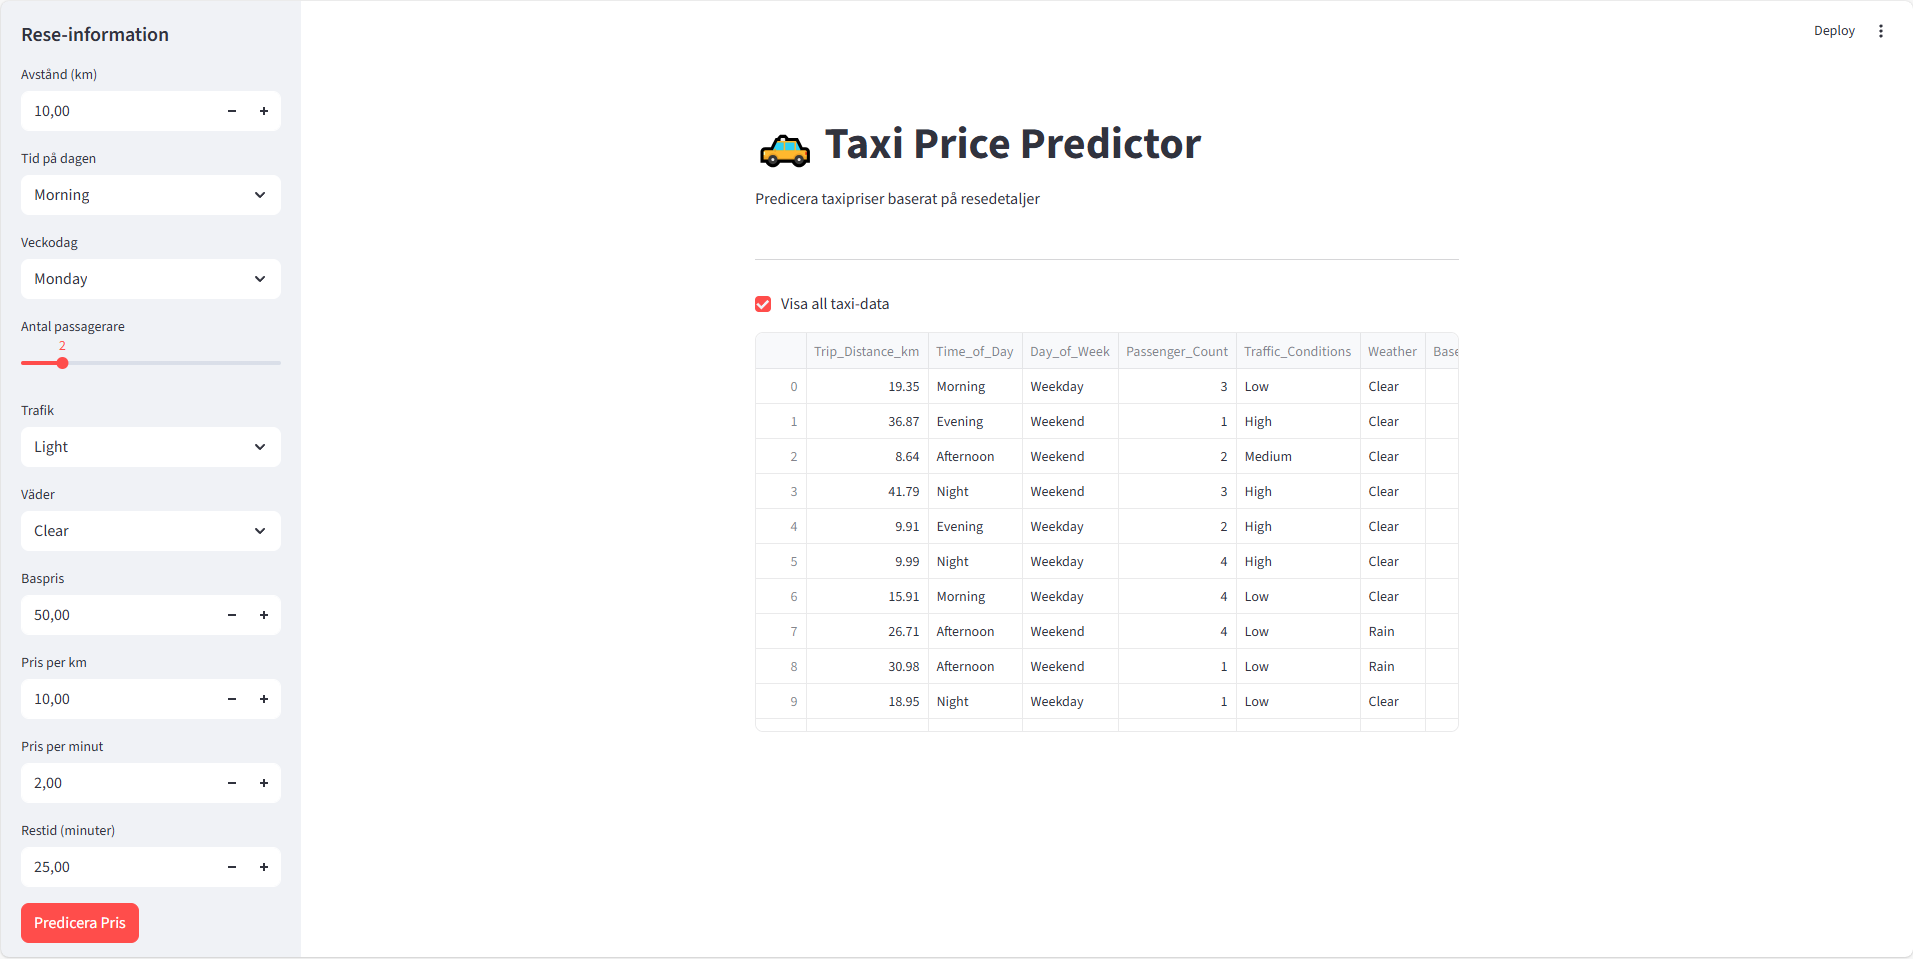
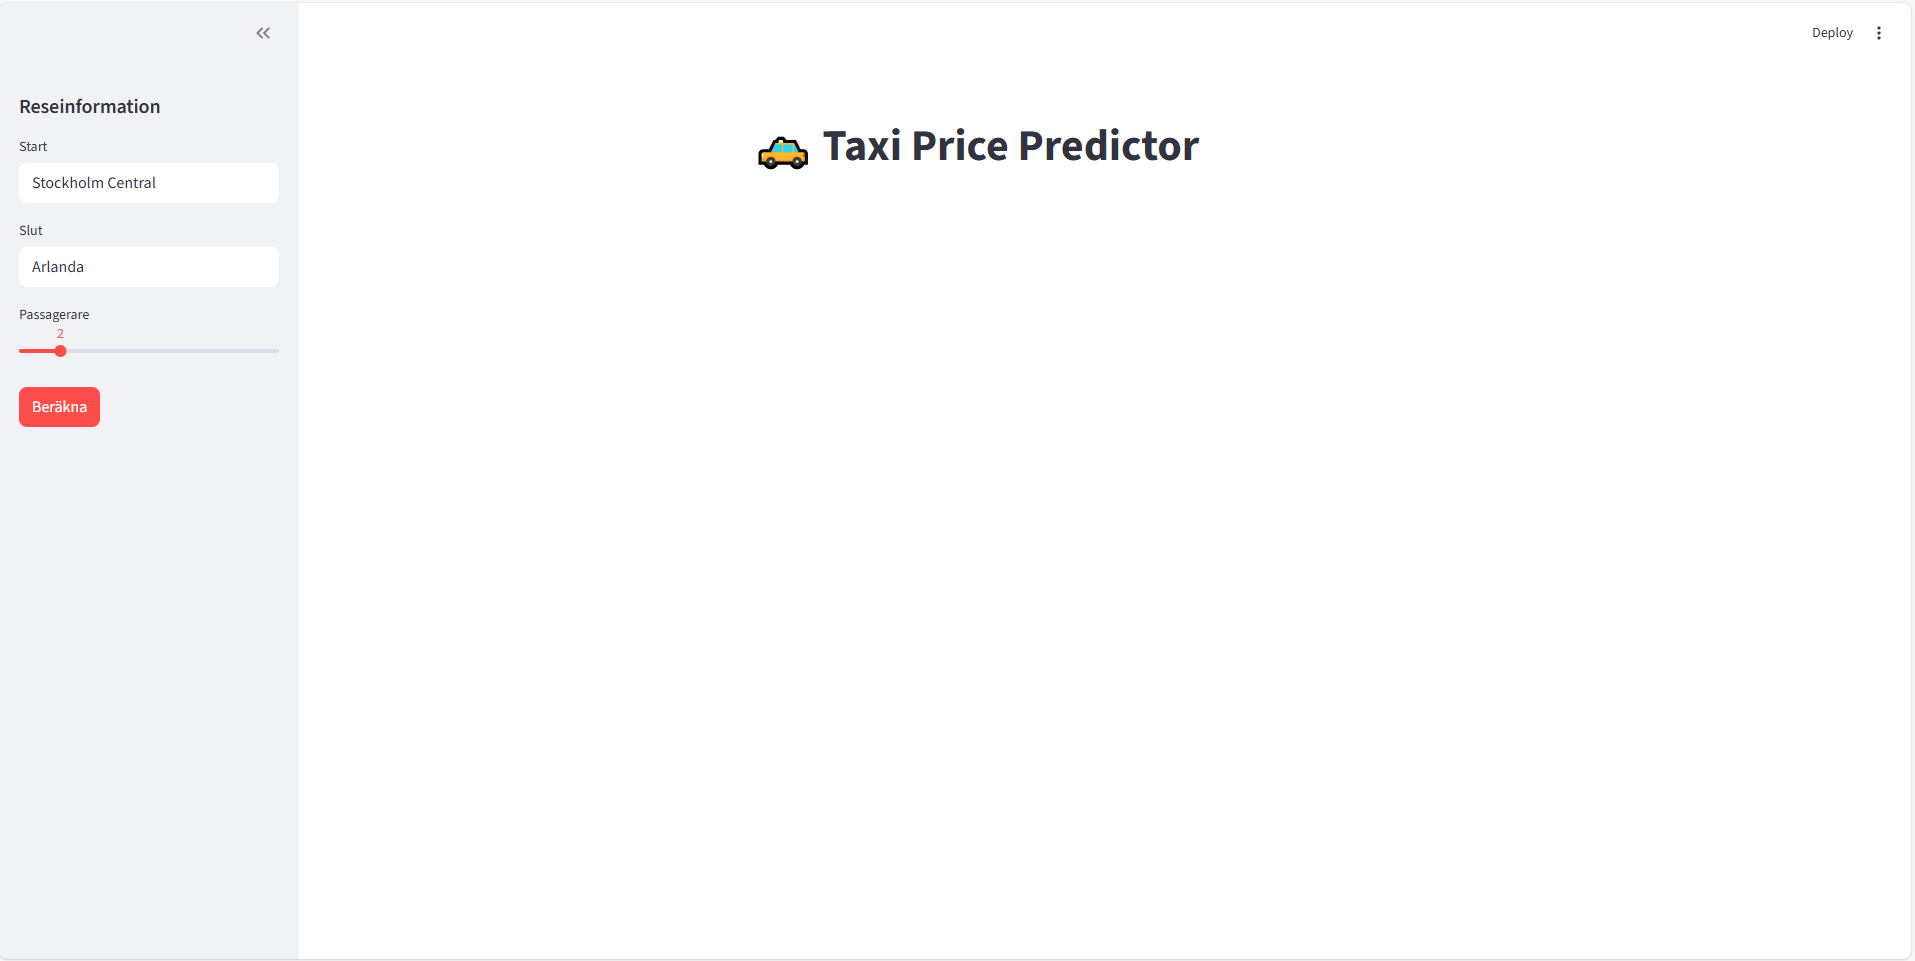
update

diff --git a/src/taxipred/frontend/app.py b/src/taxipred/frontend/app.py
@@ -1,81 +1,86 @@
-# Have used chatgpt for my frontend to understand better and have nicer look 
+# Have used chatgpt for my frontend to understand better and have nicer look. 
 
 import streamlit as st
 import requests
-import pandas as pd
+import folium
+from streamlit_folium import st_folium
+from geopy.geocoders import Nominatim
+import time
 
 st.set_page_config(page_title="Taxi Price Predictor", page_icon="🚕")
 
 API_URL = "http://127.0.0.1:8000/api/taxi/v1"
 
 st.title("🚕 Taxi Price Predictor")
-st.write("Predicera taxipriser baserat på resedetaljer")
 
-st.sidebar.header("Rese-information")
+st.sidebar.header("Reseinformation")
+start = st.sidebar.text_input("Start", "Stockholm Central")
+slut = st.sidebar.text_input("Slut", "Arlanda")
+passengers = st.sidebar.slider("Passagerare", 1, 8, 2)
 
-trip_distance = st.sidebar.number_input("Avstånd (km)", min_value=0.1, max_value=100.0, value=10.0, step=0.1)
-time_of_day = st.sidebar.selectbox("Tid på dagen", ["Morning", "Afternoon", "Evening", "Night"])
-day_of_week = st.sidebar.selectbox("Veckodag", ["Monday", "Tuesday", "Wednesday", "Thursday", "Friday", "Saturday", "Sunday"])
-passenger_count = st.sidebar.slider("Antal passagerare", 1, 8, 2)
-traffic_conditions = st.sidebar.selectbox("Trafik", ["Light", "Medium", "Heavy"])
-weather = st.sidebar.selectbox("Väder", ["Clear", "Rainy", "Cloudy", "Snowy"])
-base_fare = st.sidebar.number_input("Baspris", min_value=0.0, value=50.0, step=1.0)
-per_km_rate = st.sidebar.number_input("Pris per km", min_value=0.0, value=10.0, step=0.5)
-per_minute_rate = st.sidebar.number_input("Pris per minut", min_value=0.0, value=2.0, step=0.1)
-trip_duration = st.sidebar.number_input("Restid (minuter)", min_value=0.1, value=25.0, step=0.5)
+if st.sidebar.button("Beräkna", type="primary"):
+    st.session_state['run_calculation'] = True
 
-if st.sidebar.button("Predicera Pris", type="primary"):
-
-    payload = {
-        "Trip_Distance_km": trip_distance,
-        "Time_of_Day": time_of_day,
-        "Day_of_Week": day_of_week,
-        "Passenger_Count": passenger_count,
-        "traffic_conditions": traffic_conditions,
-        "Weather": weather,
-        "Base_Fare": base_fare,
-        "Per_Km_Rate": per_km_rate,
-        "Per_Minute_Rate": per_minute_rate,
-        "Trip_Duration_Minutes": trip_duration
-    }
+if 'run_calculation' in st.session_state and st.session_state['run_calculation']:
     
-    try:
-        response = requests.post(f"{API_URL}/predict", json=payload)
-        
-        if response.status_code == 200:
-            result = response.json()
-            predicted_price = result["predicted_price"]
-            
-            st.success(f"💰 Predicerat pris: **{predicted_price:.2f} kr**")
-            
-            st.subheader("Resedetaljer")
-            col1, col2 = st.columns(2)
-            
-            with col1:
-                st.metric("Avstånd", f"{trip_distance} km")
-                st.metric("Passagerare", passenger_count)
-                st.metric("Restid", f"{trip_duration} min")
-            
-            with col2:
-                st.metric("Tid", time_of_day)
-                st.metric("Trafik", traffic_conditions)
-                st.metric("Väder", weather)
-        else:
-            st.error(f"Fel: {response.status_code} - {response.text}")
-    
-    except Exception as e:
-        st.error(f"Kunde inte ansluta till API: {e}")
-        st.info("Se till att FastAPI-servern körs på http://127.0.0.1:8000")
+        with st.spinner("Beräknar..."):
 
-st.divider()
-if st.checkbox("Visa all taxi-data"):
-    try:
-        response = requests.get(API_URL)
-        if response.status_code == 200:
-            data = response.json()
-            df = pd.DataFrame(data)
-            st.dataframe(df, use_container_width=True)
-        else:
-            st.error("Kunde inte hämta data")
-    except Exception as e:
-        st.error(f"Fel: {e}")
+            geo = Nominatim(user_agent="taxi", timeout=10)
+            start_loc = geo.geocode(start)
+            time.sleep(1) 
+            slut_loc = geo.geocode(slut)
+            
+            if not start_loc or not slut_loc:
+                    st.error("Kunde inte hitta adresserna")
+            else:
+                    st.subheader("Rutt")
+                    m = folium.Map(
+                        location=[(start_loc.latitude + slut_loc.latitude)/2, 
+                                  (start_loc.longitude + slut_loc.longitude)/2], 
+                        zoom_start=10
+                    )
+                    folium.Marker([start_loc.latitude, start_loc.longitude], 
+                                 popup="Start", icon=folium.Icon(color='green')).add_to(m)
+                    folium.Marker([slut_loc.latitude, slut_loc.longitude], 
+                                 popup="Slut", icon=folium.Icon(color='red')).add_to(m)
+                    st_folium(m, width=700, height=400)
+
+                    from math import radians, cos, sin, asin, sqrt
+                    
+                    lat1 = radians(start_loc.latitude)
+                    lon1 = radians(start_loc.longitude)
+                    lat2 = radians(slut_loc.latitude)
+                    lon2 = radians(slut_loc.longitude)
+                    
+                    dlat = lat2 - lat1
+                    dlon = lon2 - lon1
+                    a = sin(dlat/2)**2 + cos(lat1) * cos(lat2) * sin(dlon/2)**2
+                    c = 2 * asin(sqrt(a))
+                    dist = 6371 * c
+                    
+                    tid = dist / 60 * 60
+                    
+                    col1, col2 = st.columns(2)
+                    col1.metric("Avstånd", f"{dist:.1f} km")
+                    col2.metric("Tid", f"{tid:.0f} min")
+                    
+                    payload = {
+                        "Trip_Distance_km": dist,
+                        "Time_of_Day": "Morning",
+                        "Day_of_Week": "Monday",
+                        "Passenger_Count": passengers,
+                        "traffic_conditions": "Medium",
+                        "Weather": "Clear",
+                        "Base_Fare": 50.0,
+                        "Per_Km_Rate": 10.0,
+                        "Per_Minute_Rate": 2.0,
+                        "Trip_Duration_Minutes": tid
+                    }
+                    
+                    response = requests.post(f"{API_URL}/predict", json=payload)
+                    
+                    if response.status_code == 200:
+                        pris = response.json()["predicted_price"]
+                        st.success(f"## Pris: {pris:.2f} kr")
+                    else:
+                        st.error("Kunde inte beräkna pris")

diff --git a/src/taxipred/backend/data_processing.py b/src/taxipred/backend/data_processing.py
@@ -1,9 +1,6 @@
-import json
-from taxipred.utils.constants import DATA_PATCH
+"""
+Data processing utilities for backend.
 
-def read_json():
-
-  with open (DATA_PATCH / model.joblib, "r") as file:
-    data = json.load(file)
-
-  return data
+Currently not used - all data processing is handled directly in api.py.
+This file is reserved for future utility functions.
+"""
